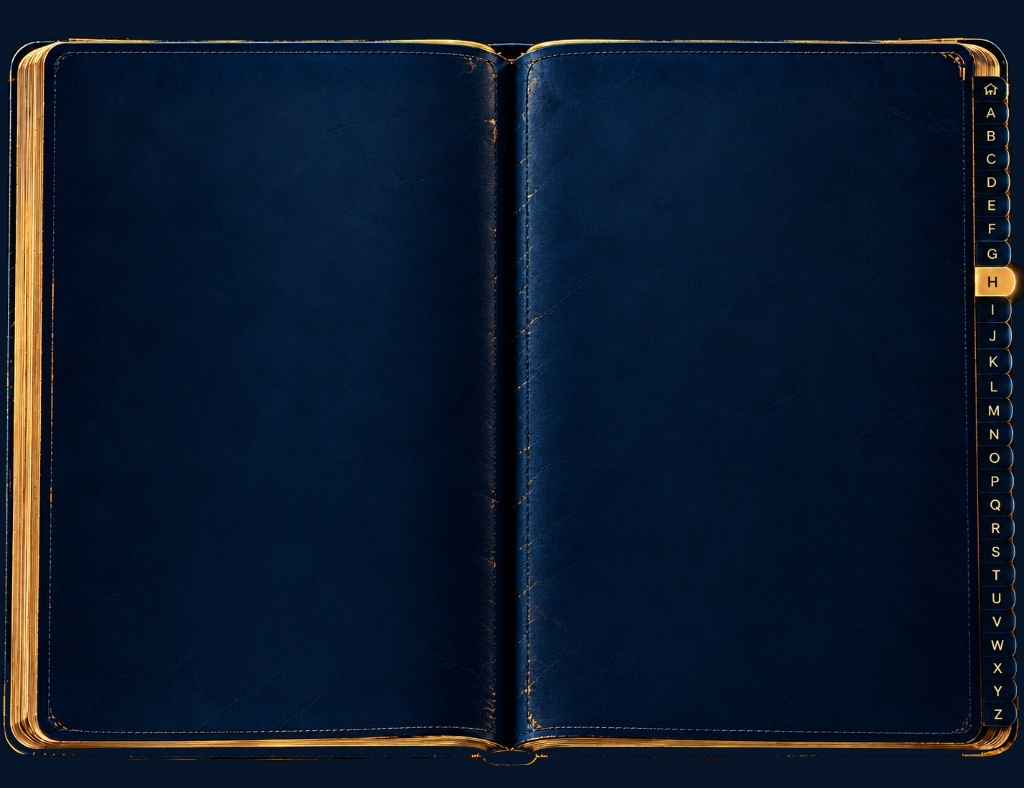
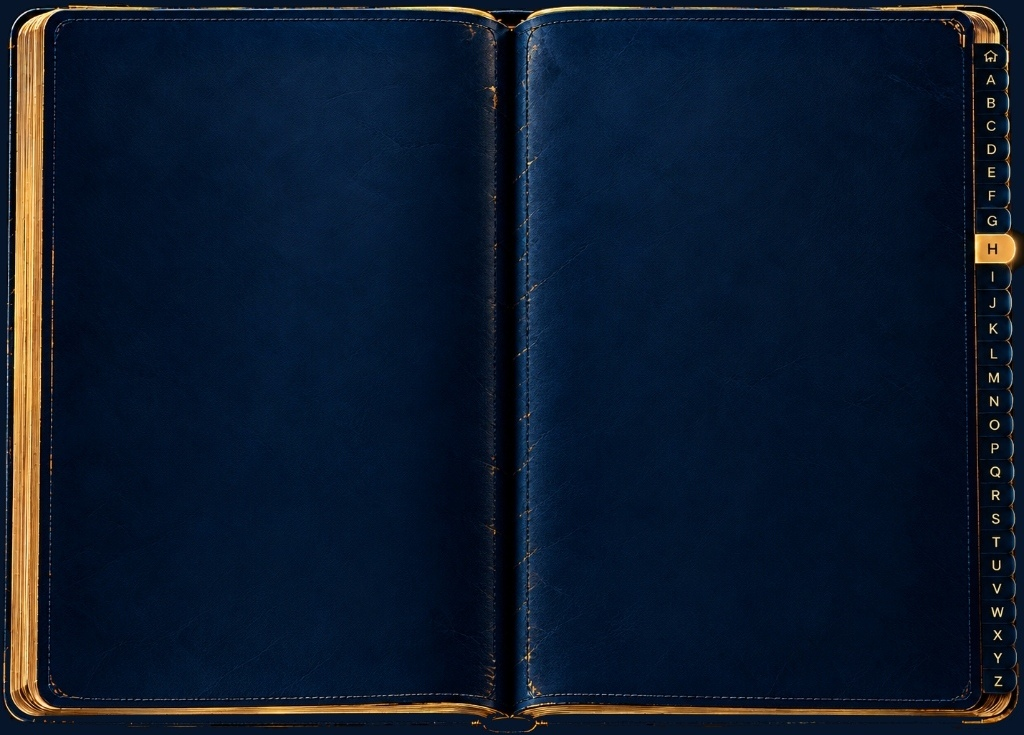
fix(contacts): move ledger background upward to eliminate dead space and bump directly to header

Changed region(s): [[0.0, 0.0, 1.0, 0.5986], [0.0, 0.6286, 1.0, 1.0]]

diff --git a/client/src/components/contact/ledger/ContactsLedgerView.tsx b/client/src/components/contact/ledger/ContactsLedgerView.tsx
@@ -1039,7 +1039,7 @@ export default function ContactsLedgerView({
           {/* ═══════════════════════════════════════════════════════════════════ */}
           {/* ALPHABET THUMB INDEX RAIL (Far Right Edge: 🏠, A through Z)        */}
           {/* ═══════════════════════════════════════════════════════════════════ */}
-          <div className="w-[6.2%] h-full pt-[6.8%] pb-[4.2%] flex flex-col items-center justify-between z-20 select-none">
+          <div className="w-[6.2%] h-full pt-[4.8%] pb-[3.8%] flex flex-col items-center justify-between z-20 select-none">
             {ALPHABET.map((letter) => {
               const isHome = letter === "HOME";
               const isSelected =
